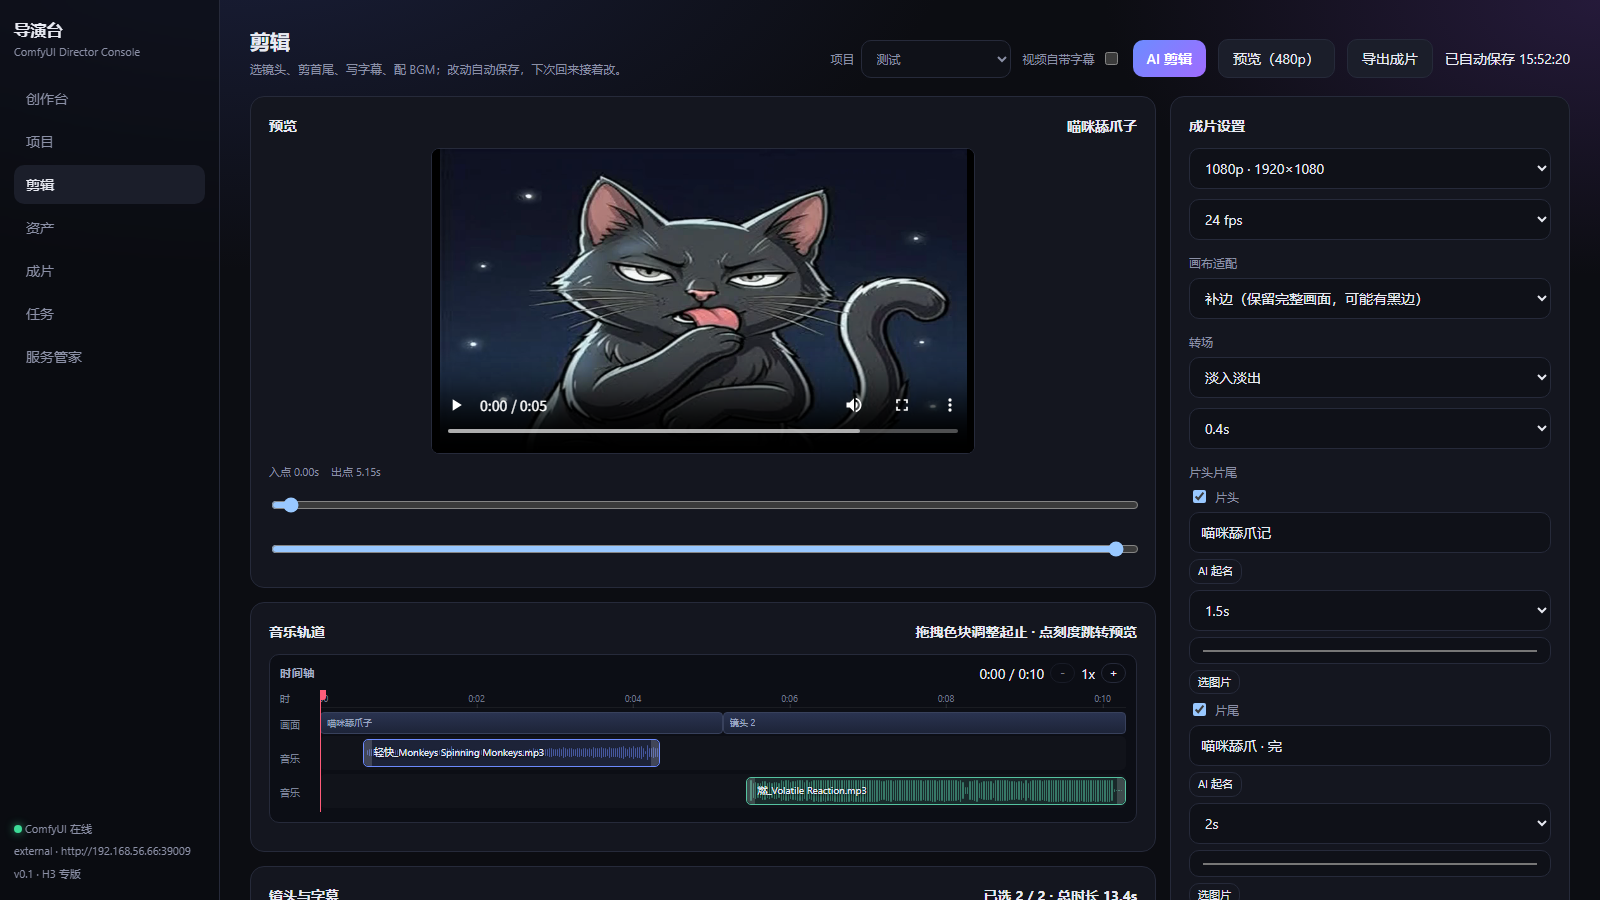
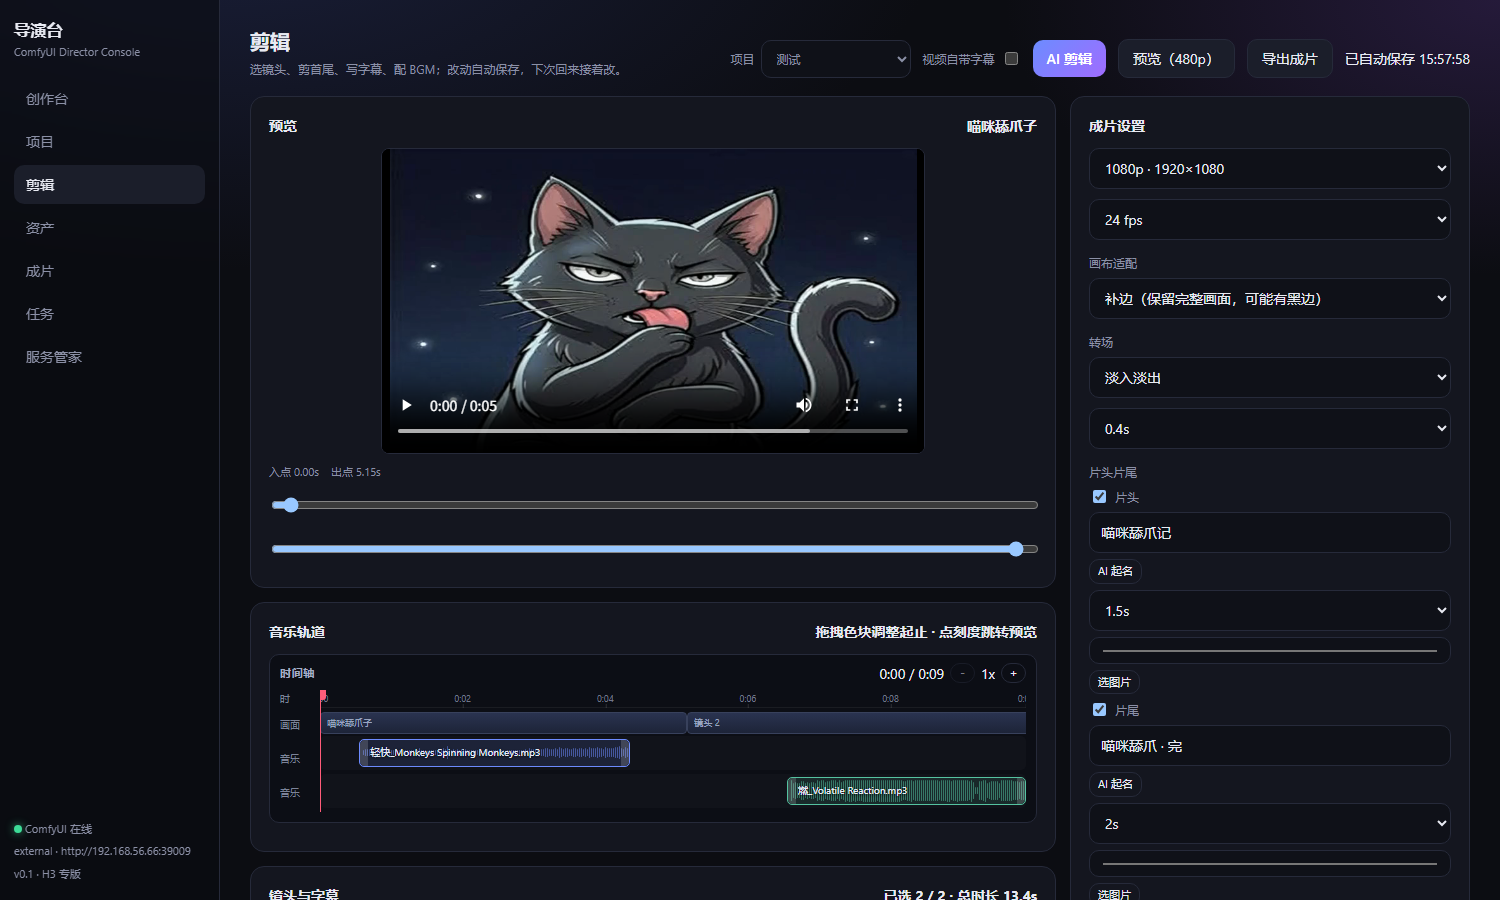
fix(剪辑): 全片时长改用最后一个镜头块的结束时间，播完播放头停到末尾，刻度首尾不再溢出

diff --git a/web/src/components/EditPanel.tsx b/web/src/components/EditPanel.tsx
@@ -302,7 +302,8 @@ export default function EditPanel({
   const filmTimeOf = useCallback((localSeconds: number) => {
     if (usingFilmPreview) return localSeconds
     const item = timeline.find((i) => i.shot_id === activeShot)
-    return (item?.start || 0) + localSeconds
+    if (!item) return localSeconds
+    return item.start + Math.min(localSeconds, item.duration)
   }, [timeline, activeShot, usingFilmPreview])
 
   const seekFilm = useCallback((filmSeconds: number) => {
@@ -409,10 +410,11 @@ export default function EditPanel({
   const updateTrack = (id: string, patch: Partial<BgmTrack>) =>
     setBgmTracks((prev) => prev.map((t) => (t.id === id ? { ...t, ...patch } : t)))
 
-  const filmDuration = useMemo(
-    () => timeline.reduce((sum, item) => sum + (item.duration || 0), 0),
-    [timeline],
-  )
+  // 全片时长 = 最后一个镜头块的结束时间（转场会让块之间有重叠，不能用求和）
+  const filmDuration = useMemo(() => {
+    if (!timeline.length) return 0
+    return timeline[timeline.length - 1].end
+  }, [timeline])
 
   const modeLabel = (mode: string) =>
     mode === 'narration' ? '解说' : mode === 'lip' ? '口播' : '纯画面'
@@ -1454,6 +1456,16 @@ export default function EditPanel({
                      src={previewJob?.status === 'succeeded' && previewJob.url ? previewJob.url : shotPreview.url}
                      onTimeUpdate={(e) => setPlayhead(filmTimeOf(e.currentTarget.currentTime))}
                      onSeeked={(e) => setPlayhead(filmTimeOf(e.currentTarget.currentTime))}
+                     onEnded={(e) => {
+                       if (usingFilmPreview) {
+                         setPlayhead(e.currentTarget.duration || filmDuration)
+                         return
+                       }
+                       const index = timeline.findIndex((i) => i.shot_id === activeShot)
+                       const item = timeline[index]
+                       if (!item) return
+                       setPlayhead(index === timeline.length - 1 ? filmDuration : item.end)
+                     }}
                      controls />
             </div>
           ) : (

diff --git a/web/src/components/BgmTimeline.tsx b/web/src/components/BgmTimeline.tsx
@@ -206,11 +206,15 @@ export default function BgmTimeline({
         <div className="tl-scroll">
           <div className="tl-rail" ref={railRef} style={{ width: `${zoom * 100}%` }}>
             <div className="tl-ruler" onClick={seekAt}>
-              {ticks.map((tick) => (
-                <span key={tick} className="tl-tick" style={{ left: `${(tick / total) * 100}%` }}>
-                  {formatTime(tick)}
-                </span>
-              ))}
+              {ticks.map((tick) => {
+                const pct = (tick / total) * 100
+                const shift = pct <= 0.5 ? '0' : pct >= 99.5 ? '-100%' : '-50%'
+                return (
+                  <span key={tick} className="tl-tick" style={{ left: `${pct}%`, transform: `translateX(${shift})` }}>
+                    {formatTime(tick)}
+                  </span>
+                )
+              })}
             </div>
 
             <div className="tl-shots" onClick={seekAt}>
@@ -302,6 +306,7 @@ function buildTicks(total: number, zoom: number) {
   const base = total > 60 ? 15 : total > 30 ? 10 : total > 12 ? 5 : 2
   const step = Math.max(0.5, base / Math.max(zoom, 1))
   const ticks: number[] = []
-  for (let t = 0; t <= total + 0.001; t += step) ticks.push(Math.round(t * 10) / 10)
+  for (let t = 0; t < total - 0.05; t += step) ticks.push(Math.round(t * 10) / 10)
+  ticks.push(Math.round(total * 10) / 10)
   return ticks
 }
